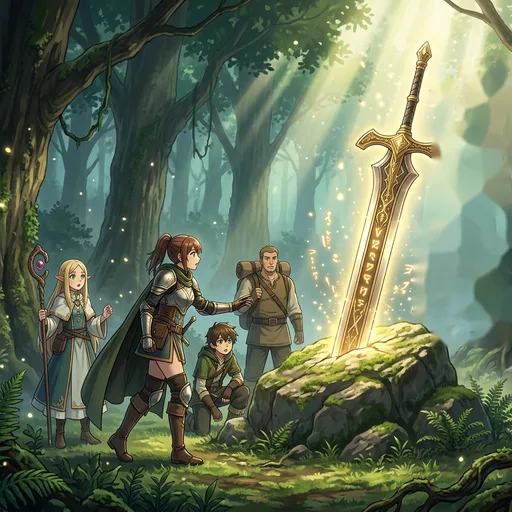
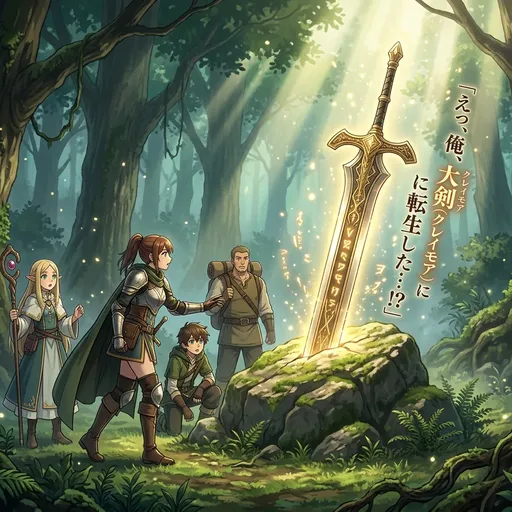
Artworks Isekaz 103, 104, 105 + 099 version originale avec texte
Claude-Session: https://claude.ai/code/session_01MPsoFvZVzuDYgw2j7rF4sk

diff --git a/cards.js b/cards.js
@@ -122,7 +122,7 @@ const CARD_DATABASE = [
   { id: "100", name: "Mage de l'Explosion", rarity: "R", emoji: "⭐", bg: "linear-gradient(135deg, #7f1d1d, #facc15)", image: "assets/cards/100.webp", edition: "E4", series: "ISEKAZ" },
   { id: "101", name: "Roi des Démons Majestueux", rarity: "SEC", emoji: "💎", bg: "linear-gradient(135deg, #1c1917, #fde047)", image: "assets/cards/101.webp", edition: "E4", series: "ISEKAZ", handmade: true },
   { id: "102", name: "Maître du Chaos Éternel", rarity: "SEC", emoji: "💎", bg: "linear-gradient(135deg, #1c1917, #fde047)", image: "assets/cards/102.webp", edition: "E4", series: "ISEKAZ", handmade: true },
-  { id: "103", name: "Serpent de l'Abîme Infini", rarity: "SEC", emoji: "💎", bg: "linear-gradient(135deg, #1c1917, #fde047)", image: "", edition: "E4", series: "ISEKAZ", handmade: true },
-  { id: "104", name: "Duo de Destruction", rarity: "SEC", emoji: "💎", bg: "linear-gradient(135deg, #1c1917, #fde047)", image: "", edition: "E4", series: "ISEKAZ", handmade: true },
-  { id: "105", name: "Perforation des Mondes", rarity: "SEC", emoji: "💎", bg: "linear-gradient(135deg, #1c1917, #fde047)", image: "", edition: "E4", series: "ISEKAZ", handmade: true }
+  { id: "103", name: "Serpent de l'Abîme Infini", rarity: "SEC", emoji: "💎", bg: "linear-gradient(135deg, #1c1917, #fde047)", image: "assets/cards/103.webp", edition: "E4", series: "ISEKAZ", handmade: true },
+  { id: "104", name: "Duo de Destruction", rarity: "SEC", emoji: "💎", bg: "linear-gradient(135deg, #1c1917, #fde047)", image: "assets/cards/104.webp", edition: "E4", series: "ISEKAZ", handmade: true },
+  { id: "105", name: "Perforation des Mondes", rarity: "SEC", emoji: "💎", bg: "linear-gradient(135deg, #1c1917, #fde047)", image: "assets/cards/105.webp", edition: "E4", series: "ISEKAZ", handmade: true }
 ];

diff --git a/index.html b/index.html
@@ -8,7 +8,7 @@
   <link rel="preconnect" href="https://fonts.googleapis.com">
   <link rel="preconnect" href="https://fonts.gstatic.com" crossorigin>
   <link href="https://fonts.googleapis.com/css2?family=Oswald:wght@500;600;700&family=Rajdhani:wght@500;600;700&display=swap" rel="stylesheet">
-  <link rel="stylesheet" href="style.css?v=35">
+  <link rel="stylesheet" href="style.css?v=36">
 </head>
 <body>
 
@@ -204,8 +204,8 @@
   <div id="toast" class="toast hidden"></div>
 
   <script src="https://cdn.jsdelivr.net/npm/@supabase/supabase-js@2"></script>
-  <script src="cards.js?v=35"></script>
-  <script src="app.js?v=35"></script>
-  <script src="games.js?v=35"></script>
+  <script src="cards.js?v=36"></script>
+  <script src="app.js?v=36"></script>
+  <script src="games.js?v=36"></script>
 </body>
 </html>
